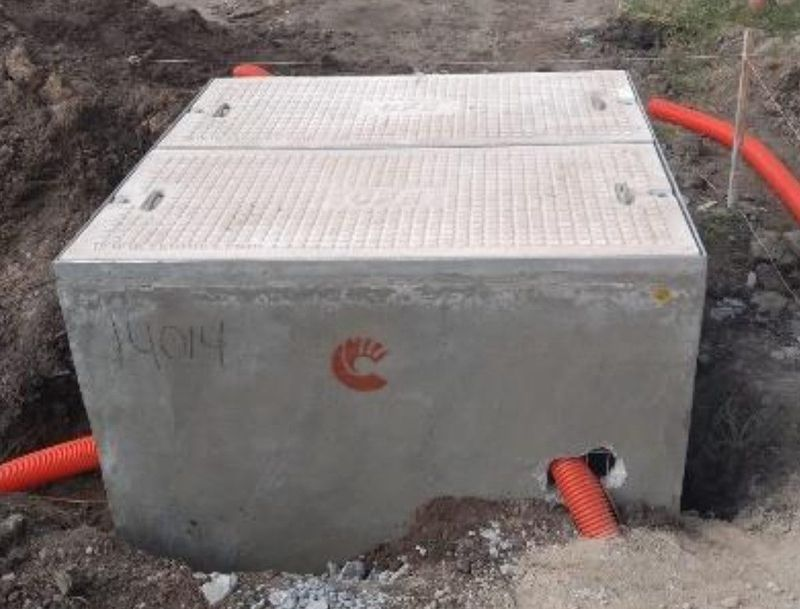
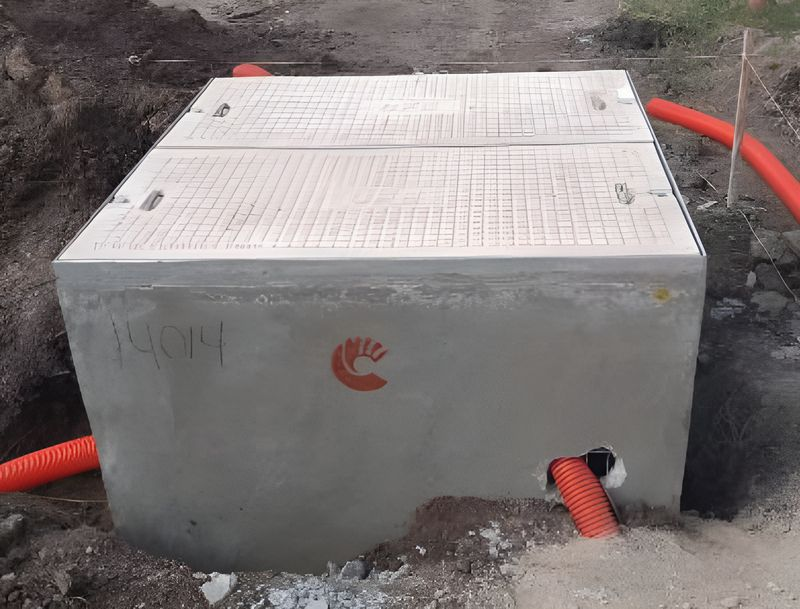
Fotos mas nitidas: ampliadas con IA (Real-ESRGAN) y version grande en el visor
Las fotos del sitio venian chicas y comprimidas (800 px, sacadas del curriculum)
y se veian pixeleadas. Se ampliaron con Real-ESRGAN y se guardaron al tamano de
web: la portada a 2400 px, Servicios a 1400, galerias a 800 para la miniatura y
1600 en img/grande/ para el visor (data-grande). Version 20261019a.

Claude-Session: https://claude.ai/code/session_01YR4Z3KoKbvQhLCCjsyzLfD

diff --git a/index.html b/index.html
@@ -19,7 +19,7 @@
 <link rel="preconnect" href="https://fonts.googleapis.com">
 <link rel="preconnect" href="https://fonts.gstatic.com" crossorigin>
 <link href="https://fonts.googleapis.com/css2?family=Titillium+Web:wght@400;600;700&display=swap" rel="stylesheet">
-<link rel="stylesheet" href="css/estilo.css?v=20261018b">
+<link rel="stylesheet" href="css/estilo.css?v=20261019a">
 <script type="application/ld+json">
 {
   "@context": "https://schema.org",
@@ -238,10 +238,10 @@
           <p>Redes de distribución en media y baja tensión con sistema aéreo, híbrido y subterráneo: obra civil, registros, transformadores y líneas.</p>
         </div>
         <ul class="galeria">
-          <li><img src="img/fracc-registro.jpg" alt="Registro de concreto con sus ductos" width="800" height="609" loading="lazy"></li>
-          <li><img src="img/fracc-zanja.jpg" alt="Excavación de zanja para la red subterránea" width="800" height="561" loading="lazy"></li>
-          <li><img src="img/fracc-transformador.jpg" alt="Transformador tipo pedestal instalado" width="800" height="609" loading="lazy"></li>
-          <li><img src="img/fracc-poste.jpg" alt="Poste de la red aérea con su equipo" width="800" height="609" loading="lazy"></li>
+          <li><img src="img/fracc-registro.jpg" data-grande="img/grande/fracc-registro.jpg" alt="Registro de concreto con sus ductos" width="800" height="609" loading="lazy"></li>
+          <li><img src="img/fracc-zanja.jpg" data-grande="img/grande/fracc-zanja.jpg" alt="Excavación de zanja para la red subterránea" width="800" height="561" loading="lazy"></li>
+          <li><img src="img/fracc-transformador.jpg" data-grande="img/grande/fracc-transformador.jpg" alt="Transformador tipo pedestal instalado" width="800" height="609" loading="lazy"></li>
+          <li><img src="img/fracc-poste.jpg" data-grande="img/grande/fracc-poste.jpg" alt="Poste de la red aérea con su equipo" width="800" height="609" loading="lazy"></li>
         </ul>
       </article>
       <article class="trabajo">
@@ -251,10 +251,10 @@
           <p>Pruebas de aislamiento a muy baja frecuencia en cables de media tensión de hasta 34.5 kV, en campo.</p>
         </div>
         <ul class="galeria">
-          <li><img src="img/vlf-pantalla.jpg" alt="Pantalla del equipo VLF con la prueba terminada correctamente" width="800" height="609" loading="lazy"></li>
-          <li><img src="img/vlf-equipo.jpg" alt="Equipo de trabajo preparando la prueba VLF" width="800" height="692" loading="lazy"></li>
-          <li><img src="img/vlf-campo.jpg" alt="Área acordonada durante una prueba en campo" width="800" height="609" loading="lazy"></li>
-          <li><img src="img/vlf-calle.jpg" alt="Prueba de cable en la vía pública con señalamiento" width="800" height="585" loading="lazy"></li>
+          <li><img src="img/vlf-pantalla.jpg" data-grande="img/grande/vlf-pantalla.jpg" alt="Pantalla del equipo VLF con la prueba terminada correctamente" width="800" height="609" loading="lazy"></li>
+          <li><img src="img/vlf-equipo.jpg" data-grande="img/grande/vlf-equipo.jpg" alt="Equipo de trabajo preparando la prueba VLF" width="800" height="692" loading="lazy"></li>
+          <li><img src="img/vlf-campo.jpg" data-grande="img/grande/vlf-campo.jpg" alt="Área acordonada durante una prueba en campo" width="800" height="609" loading="lazy"></li>
+          <li><img src="img/vlf-calle.jpg" data-grande="img/grande/vlf-calle.jpg" alt="Prueba de cable en la vía pública con señalamiento" width="800" height="585" loading="lazy"></li>
         </ul>
       </article>
       <article class="trabajo">
@@ -264,10 +264,10 @@
           <p>Suministro e instalación de la red eléctrica en la estación de bombeo de la Planta Pastor Lozano (COMAPA).</p>
         </div>
         <ul class="galeria">
-          <li><img src="img/comapa-obra.jpg" alt="Personal tendiendo cable en la estación de bombeo" width="800" height="609" loading="lazy"></li>
-          <li><img src="img/comapa-caseta.jpg" alt="Caseta eléctrica de la estación de bombeo" width="800" height="609" loading="lazy"></li>
-          <li><img src="img/comapa-tablero.jpg" alt="Conexión de tableros de control" width="800" height="628" loading="lazy"></li>
-          <li><img src="img/comapa-centro-carga.jpg" alt="Instalación de centro de carga" width="800" height="609" loading="lazy"></li>
+          <li><img src="img/comapa-obra.jpg" data-grande="img/grande/comapa-obra.jpg" alt="Personal tendiendo cable en la estación de bombeo" width="800" height="609" loading="lazy"></li>
+          <li><img src="img/comapa-caseta.jpg" data-grande="img/grande/comapa-caseta.jpg" alt="Caseta eléctrica de la estación de bombeo" width="800" height="609" loading="lazy"></li>
+          <li><img src="img/comapa-tablero.jpg" data-grande="img/grande/comapa-tablero.jpg" alt="Conexión de tableros de control" width="800" height="628" loading="lazy"></li>
+          <li><img src="img/comapa-centro-carga.jpg" data-grande="img/grande/comapa-centro-carga.jpg" alt="Instalación de centro de carga" width="800" height="609" loading="lazy"></li>
         </ul>
       </article>
     </div>
@@ -348,7 +348,7 @@
   <span>¿Cotizamos? Escríbanos</span>
 </a>
 
-<script src="js/sitio.js?v=20261018b" defer></script>
-<script src="js/contacto.js?v=20261018b" defer></script>
+<script src="js/sitio.js?v=20261019a" defer></script>
+<script src="js/contacto.js?v=20261019a" defer></script>
 </body>
 </html>

diff --git a/energia-solar.html b/energia-solar.html
@@ -19,7 +19,7 @@
 <link rel="preconnect" href="https://fonts.googleapis.com">
 <link rel="preconnect" href="https://fonts.gstatic.com" crossorigin>
 <link href="https://fonts.googleapis.com/css2?family=Titillium+Web:wght@400;600;700&display=swap" rel="stylesheet">
-<link rel="stylesheet" href="css/estilo.css?v=20261018b">
+<link rel="stylesheet" href="css/estilo.css?v=20261019a">
 </head>
 <body>
 
@@ -92,16 +92,16 @@
           <p>Paneles LONGi de 580 W con microinversores Hoymiles: estructura, cableado, conexión al tablero y mediciones de puesta en marcha.</p>
         </div>
         <ul class="galeria">
-          <li><img src="img/solar-azotea.jpg" alt="Arreglo de paneles solares en la azotea con el equipo de trabajo" width="800" height="450" loading="lazy"></li>
-          <li><img src="img/solar-microinversor.jpg" alt="Microinversor instalado debajo de un panel" width="800" height="1067" loading="lazy"></li>
-          <li><img src="img/solar-medicion.jpg" alt="Medición con amperímetro de gancho durante la puesta en marcha" width="720" height="1280" loading="lazy"></li>
-          <li><img src="img/solar-panel-580w.jpg" alt="Etiqueta de un panel LONGi de 580 W" width="800" height="450" loading="lazy"></li>
+          <li><img src="img/solar-azotea.jpg" data-grande="img/grande/solar-azotea.jpg" alt="Arreglo de paneles solares en la azotea con el equipo de trabajo" width="800" height="450" loading="lazy"></li>
+          <li><img src="img/solar-microinversor.jpg" data-grande="img/grande/solar-microinversor.jpg" alt="Microinversor instalado debajo de un panel" width="800" height="1067" loading="lazy"></li>
+          <li><img src="img/solar-medicion.jpg" data-grande="img/grande/solar-medicion.jpg" alt="Medición con amperímetro de gancho durante la puesta en marcha" width="720" height="1280" loading="lazy"></li>
+          <li><img src="img/solar-panel-580w.jpg" data-grande="img/grande/solar-panel-580w.jpg" alt="Etiqueta de un panel LONGi de 580 W" width="800" height="450" loading="lazy"></li>
         </ul>
       </article>
       <h3 class="otras-obras">Otros proyectos</h3>
       <div class="obras-pares">
         <img src="img/solar-residencial.jpg" alt="Paneles solares instalados en la azotea de una casa habitación" width="1400" height="788" loading="lazy">
-        <img src="img/solar-montaje.jpg" alt="Montaje de la estructura y los paneles solares en la azotea de otra casa" width="720" height="1280" loading="lazy">
+        <img src="img/solar-montaje.jpg" data-grande="img/grande/solar-montaje.jpg" alt="Montaje de la estructura y los paneles solares en la azotea de otra casa" width="720" height="1280" loading="lazy">
       </div>
     </div>
   </section>
@@ -234,6 +234,6 @@
   <span>Cotiza tu sistema solar</span>
 </a>
 
-<script src="js/sitio.js?v=20261018b" defer></script>
+<script src="js/sitio.js?v=20261019a" defer></script>
 </body>
 </html>

diff --git a/js/sitio.js b/js/sitio.js
@@ -131,7 +131,7 @@
     var mostrar = function (i) {
       actual = (i + grupo.length) % grupo.length;
       var foto = grupo[actual];
-      img.src = foto.currentSrc || foto.src;
+      img.src = foto.getAttribute("data-grande") || foto.currentSrc || foto.src;  // la versión grande, si hay
       img.alt = foto.alt;
       pie.textContent = foto.alt;
       cuenta.textContent = grupo.length > 1 ? (actual + 1) + " / " + grupo.length : "";

diff --git a/404.html b/404.html
@@ -10,7 +10,7 @@
 <link rel="preconnect" href="https://fonts.googleapis.com">
 <link rel="preconnect" href="https://fonts.gstatic.com" crossorigin>
 <link href="https://fonts.googleapis.com/css2?family=Titillium+Web:wght@400;600;700&display=swap" rel="stylesheet">
-<link rel="stylesheet" href="/css/estilo.css?v=20261018b">
+<link rel="stylesheet" href="/css/estilo.css?v=20261019a">
 </head>
 <body>
 <header class="encabezado">
